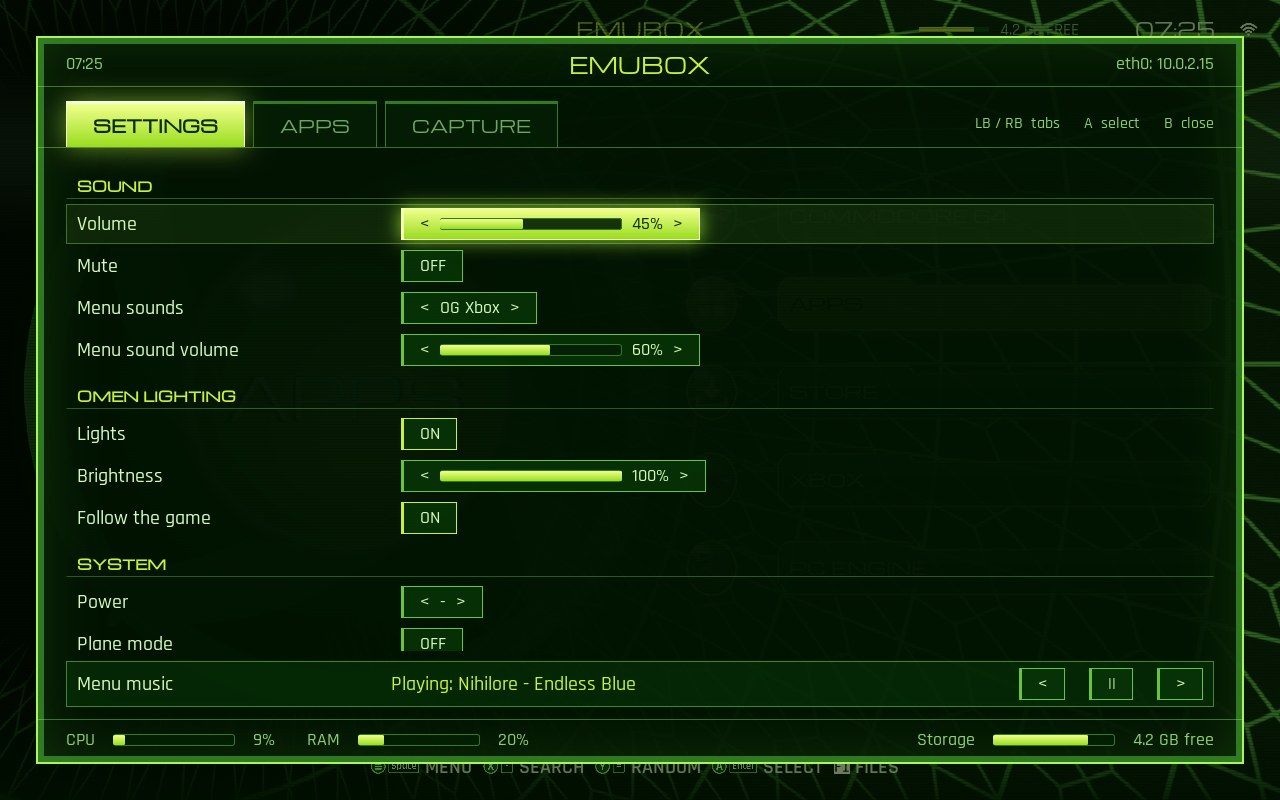
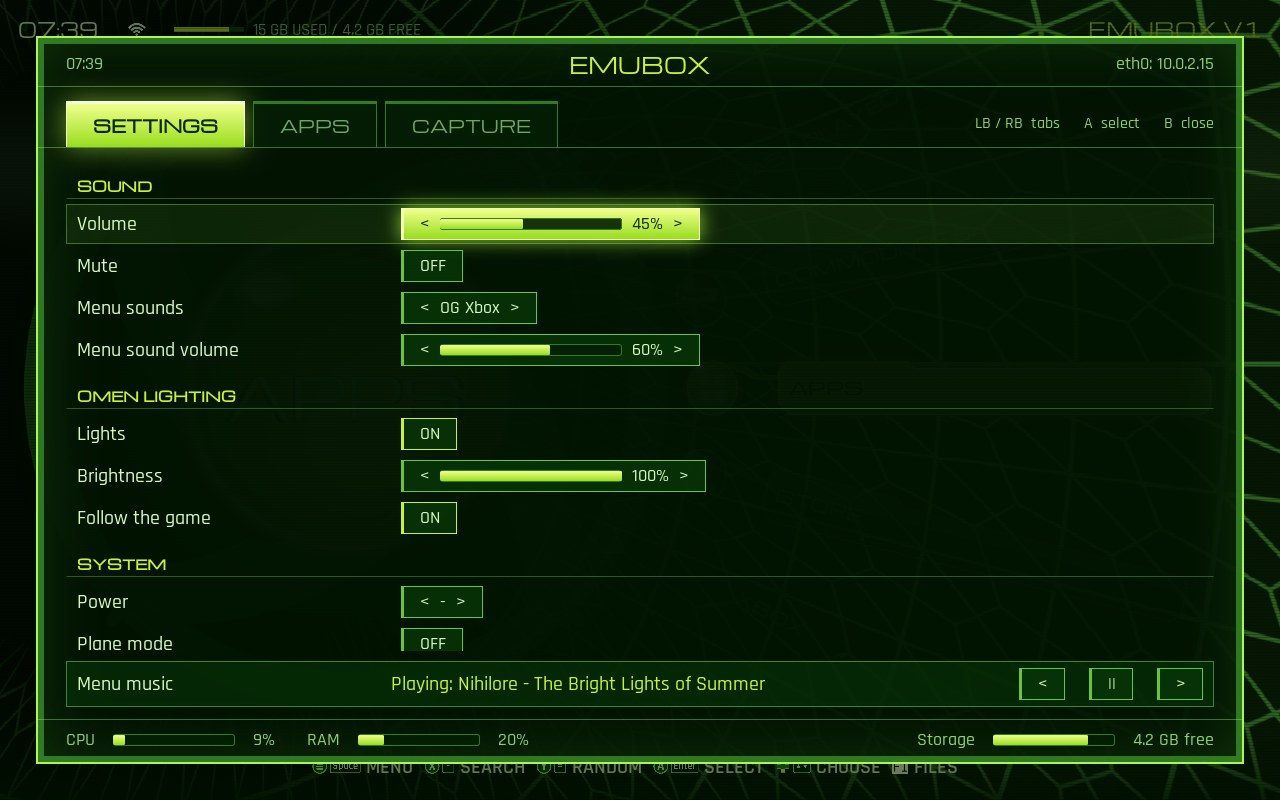
Home screen: the systems on a wheel round the orb; indicators top left
- The systems' rows sit on Batocera's vertical-wheel carousel, each turned about the
  orb's middle (14 degrees per place), the chosen one level to its right. Moving
  slides them round. The rows fade out towards the top and bottom by their angle
  round the orb (shaders/wheelfade.glsl); labels are clipped where their bars
  have faded.
- Top bar: the clock, network and space (now used and free) at the top left, with
  the controllers in a row beneath; EMUBOX V1 at the top right of the home screen.
- README, docs and pictures follow.

diff --git a/components/console/files/lib/space.py b/components/console/files/lib/space.py
@@ -26,12 +26,12 @@ INDICATOR = """<?xml version="1.0"?>
 {mark}
 <theme>
   <formatVersion>7</formatVersion>
-  <!-- In the top row, left of the clock: a bar that fills as the drive does, with what is free right beside it. -->
+  <!-- In the top row, right of the clock and network icons: a bar that fills as the drive does, then what is used and free. -->
   <view name="system, basic, detailed, video, grid">
     <image name="spaceTrack" extra="static">
       <path>./art/white.png</path>
       <color>124a10ff</color>
-      <pos>0.718 0.0335</pos>
+      <pos>0.136 0.0335</pos>
       <origin>0 0</origin>
       <size>0.055 0.007</size>
       <zIndex>70</zIndex>
@@ -39,7 +39,7 @@ INDICATOR = """<?xml version="1.0"?>
     <image name="spaceFill" extra="static">
       <path>./art/white.png</path>
       <color>{colour}</color>
-      <pos>0.718 0.0335</pos>
+      <pos>0.136 0.0335</pos>
       <origin>0 0</origin>
       <size>{width:.4f} 0.007</size>
       <zIndex>71</zIndex>
@@ -49,9 +49,9 @@ INDICATOR = """<?xml version="1.0"?>
       <fontPath>./art/fonts/Rajdhani-Medium.ttf</fontPath>
       <fontSize>0.022</fontSize>
       <color>{text_colour}</color>
-      <pos>0.781 0.012</pos>
+      <pos>0.198 0.012</pos>
       <origin>0 0</origin>
-      <size>0.085 0.05</size>
+      <size>0.2 0.05</size>
       <alignment>left</alignment>
       <verticalAlignment>center</verticalAlignment>
       <zIndex>71</zIndex>
@@ -105,7 +105,7 @@ def draw_indicator(themes: str | os.PathLike = THEMES, folder: str | os.PathLike
     full = 1 - free / total
     nearly = full >= NEARLY_FULL or free <= RESERVE
     text = INDICATOR.format(
-        mark=MARK, width=max(0.002, 0.055 * full), words=f"{size(free)} FREE".upper(),
+        mark=MARK, width=max(0.002, 0.055 * full), words=f"{size(total - free)} USED / {size(free)} FREE".upper(),
         colour="ff7a3cff" if nearly else "c8f03cff", text_colour="ffb08aff" if nearly else "8fc878ff")
     written = []
     try:

diff --git a/docs/details.md b/docs/details.md
@@ -51,7 +51,7 @@ things or update; it only copies what is missing.
 
 | | |
 | --- | --- |
-| **Xbox-style look** | Theme for the menus, a start-up film (a plasma waking in a dark chamber and flaring into the EmuBox name, with its own sound), a tunnel of green cells behind the menus, a glossy, slightly see-through orb gripped by a see-through ring and four curled arms that turn a quarter turn as you move (the 3D parts are rendered in Blender: components/look/tools/blender) that goes straight to the menus without Batocera's loading screen, the EmuBox name on the home screen and on an OMEN cooler's screen, matching colours for the in-game menu, fonts, sounds. One row along the top: a light per controller on the left; how full the drive is, the clock and the network on the right |
+| **Xbox-style look** | Theme for the menus, a start-up film (a plasma waking in a dark chamber and flaring into the EmuBox name, with its own sound), a tunnel of green cells behind the menus, a glossy, slightly see-through orb gripped by a see-through ring and four curled arms that turn a quarter turn as you move (the 3D parts are rendered in Blender: components/look/tools/blender) that goes straight to the menus without Batocera's loading screen, the EmuBox name on the home screen and on an OMEN cooler's screen, matching colours for the in-game menu, fonts, sounds. The systems on a wheel round the orb: the chosen one level to its right, the others turning away above and below and fading out (shaders/wheelfade.glsl); turning slides them round. Top left: the clock, the network, the space used and free, and beneath them a light per controller; EMUBOX V1 at the top right of the home screen |
 | **Discord**, **Apple Music** | Open from **Apps** on the home screen, or over a running game from the in-game menu's **Apps** tab. The installer puts each one's program on the drive (with `flatpak` on the PC), so there is no waiting in Batocera; without that, or with `--download-later`, it downloads the first time you open it |
 | **Terminal**, **Files**, **Browser**, **Claude** | Come with any app, in **Apps**: a command line, Batocera's file manager opened on the drive, and Claude Code in a terminal (it downloads itself the first time and asks you to sign in; a keyboard helps) |
 | **ROM-hack patcher** | Drop a `.ips`/`.bps`/`.ups` file in `patches` and it is applied at boot |

diff --git a/README.md b/README.md
@@ -46,9 +46,9 @@ there is; `./install --remove <name>` takes something off.
   open its options and choose *Edit this game's metadata*; EmuBox will not change that name again.
 - **Your PC's other disks stay untouched**: Batocera only offers USB drives as extra games drives and
   never mounts Windows, Linux or another Batocera drive; this keeps working through Batocera updates.
-- **The look**: the theme, a start-up film, glass-pane menus, each system's own console in its
-  row on the home screen, and one row of indicators along the top (controllers, free space, clock,
-  network).
+- **The look**: the theme, a start-up film, glass-pane menus, the systems on a wheel that turns
+  round the orb on the home screen (each with its own console in its row), and the indicators at
+  the top left (clock, network, space used and free, with the controllers in a row beneath).
 - **Apps**, a section of their own on the home screen: Discord and Apple Music, set up for the
   controller and already downloaded onto the drive, plus a Terminal, Files, and Claude Code.
 - **Store**: games (free games, Steam, Heroic, itch.io and **Vault**, your own list of store

diff --git a/docs/vault.md b/docs/vault.md
@@ -73,7 +73,7 @@ Settings are one file, `/userdata/system/vault/vault.json`; sign-ins are kept ne
 
 ## When the drive is full
 
-Vault shows the free space at the top right of its lists, and the menus show it under the clock.
+Vault shows the free space at the top right of its lists, and the menus show it at the top left, beside the clock.
 A download that would not fit is refused before it starts, with what it needs and what is free.
 If the drive fills up while downloading, the half file is removed and Vault says so. If the install
 command fails, its last line of output is shown and the file stays in downloads; nothing is lost.
